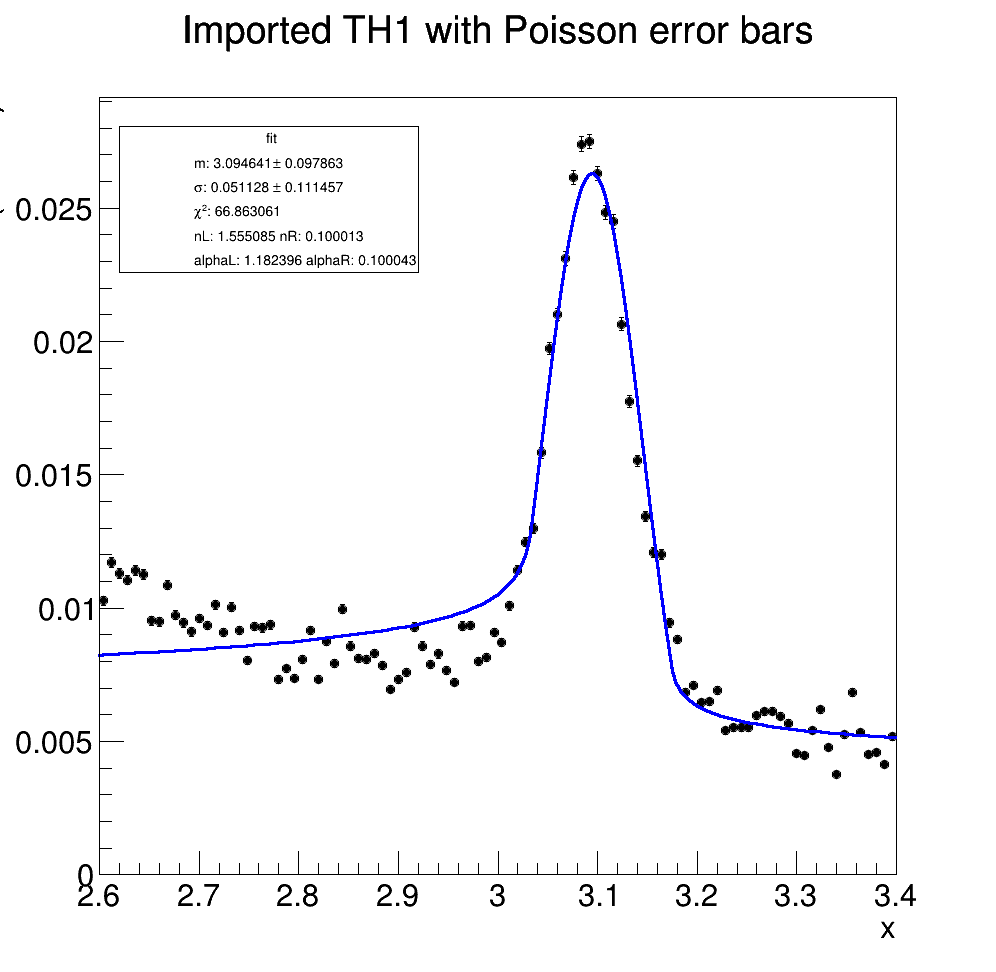
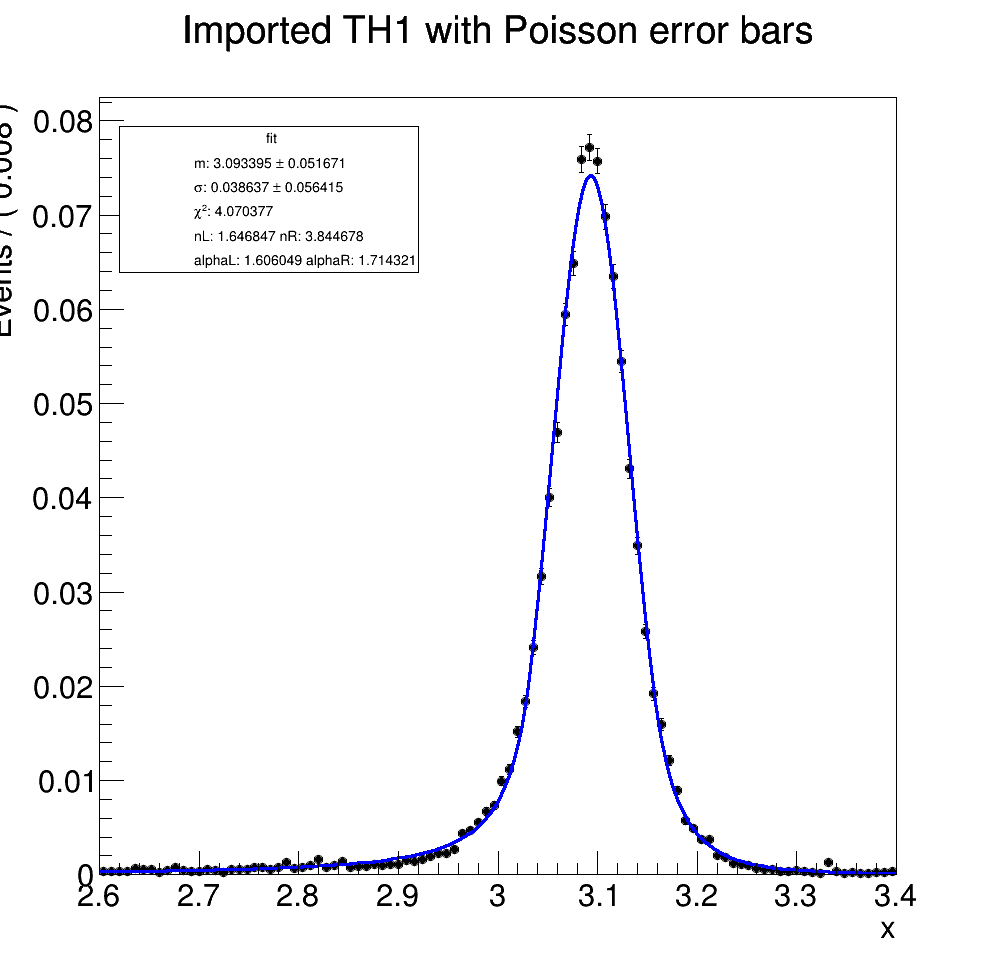
updates

diff --git a/root_scripts/tmva/QQ_mass_resolution_TMVA.C b/root_scripts/tmva/QQ_mass_resolution_TMVA.C
@@ -27,6 +27,14 @@
 #include <RooPlot.h>
 using namespace RooFit;
 
+#include <TMVA/Reader.h>
+#include <TMVA/Factory.h>
+#include <TMVA/DataLoader.h>
+#include <TMVA/DataSetInfo.h>
+#include <TMVA/Config.h>
+#include <TMVA/MethodDL.h>
+#include <TMVA/Tools.h>
+
 #include <ROOT/TTreeProcessorMT.hxx>
 #include <ROOT/TThreadedObject.hxx>
 
@@ -34,11 +42,13 @@ using namespace RooFit;
 #include "utils/TMVA_cuts.hpp"
 bool embeding = false;
 bool hasGEM = true;
+bool plotOnlyGEM = false;
+float wp = 0.6;
 
 TCanvas* QQ_mass_resolution_from_name(const char* filename) {
 	float massMin = 2.6, massMax = 3.4;
 	uint massBins = 100;
-	int max_n_event = -1;
+	int max_n_event = 50000;
 
 	float xSize = 0.3, ySize = 0.15;
 	float xBegin = 0.12, yBegin = 0.87;
@@ -48,9 +58,58 @@ TCanvas* QQ_mass_resolution_from_name(const char* filename) {
 	float QQrapidityCutLow = 1.6, QQrapidityCutHigh = 2.4;
 	float minVtxProb = 0.01;
 
-	int nthreads = std::thread::hardware_concurrency();
+	int nthreads = 1; //std::thread::hardware_concurrency();
 	std::cout << "using " << nthreads << " threads" << std::endl;
 	ROOT::EnableImplicitMT(nthreads);
+
+
+
+    TMVA::Reader *reader = new TMVA::Reader("!Color:!Silent");
+    const char *weightfile = "dataloader/weights/TMVAClassification_BDTG.weights.xml";
+
+/*int*/ float reco_mu_isGEM_, reco_isTracker_, reco_isGlobal_, reco_mu_highPurity_;
+/*int*/ float nHitsMu_, nHitsTracker_, nHitsPix_;
+	float reco_mu_localChi2_, reco_mu_normChi2_, reco_mu_pt_, reco_mu_eta_;
+	float reco_mu_dxy_, reco_mu_dz_, nPV_;
+/*int*/ float reco_mu_nMatches_, reco_muGEMquality_;
+
+    std::vector<TString> var_names = {
+    	"Reco_mu_nMuValHits",
+    	"Reco_mu_nTrkHits",
+    	"Reco_mu_nPixValHits",
+    	"Reco_mu_localChi2",
+	 // "Reco_mu_normChi2",
+    	"Reco_mu_pt",
+    	"Reco_mu_eta",
+    	"Reco_mu_dxy",
+    	"Reco_mu_dz",
+    	"nPV",
+	 // "Reco_mu_highPurity",
+	    "Reco_mu_nMatches" // ,
+	 // "Reco_muGEMquality"
+    };
+    std::map<TString, float*> float_variables = {
+    	{"Reco_mu_nMuValHits",  &nHitsMu_},
+    	{"Reco_mu_nTrkHits",    &nHitsTracker_},
+    	{"Reco_mu_nPixValHits", &nHitsPix_},
+    	{"Reco_mu_localChi2",   &reco_mu_localChi2_},
+	 // {"Reco_mu_normChi2",    &reco_mu_normChi2_},
+    	{"Reco_mu_pt",          &reco_mu_pt_},
+    	{"Reco_mu_eta",         &reco_mu_eta_},
+    	{"Reco_mu_dxy",         &reco_mu_dxy_},
+    	{"Reco_mu_dz",          &reco_mu_dz_},
+    	{"nPV",                 &nPV_},
+	 // {"Reco_mu_highPurity",  &reco_mu_highPurity_},
+	    {"Reco_mu_nMatches",    &reco_mu_nMatches_} // ,
+	 // {"Reco_muGEMquality",   &reco_muGEMquality_}
+    };
+    for (auto var_name : var_names) {
+        reader->AddVariable(var_name, float_variables[var_name]);
+    }
+
+    std::cout << "Read model..." << std::endl;
+    reader->BookMVA("BDTG", weightfile);
+    std::cout << "... Done" << std::endl;
 
 
 	auto readerFunction = [&](TTreeReader &myReader) {
@@ -77,6 +136,7 @@ TCanvas* QQ_mass_resolution_from_name(const char* filename) {
 		TTreeReaderArray<short>        mu_whichgen   (myReader, "Reco_mu_whichGen");
 		TTreeReaderArray<bool>         is_soft_cut   (myReader, "Reco_mu_isSoftCutBased"); //"Reco_mu_isSoftCutBased"); //"Reco_mu_isGlobal);" //"Reco_mu_isTracker");
 		TTreeReaderArray<bool>         reco_isTracker(myReader, "Reco_mu_isTracker"); //"Reco_mu_isGlobal");
+		TTreeReaderArray<short>        reco_mu_charge(myReader, "Reco_mu_charge");
 
 		TTreeReaderArray<bool>  reco_mu_isGEM     (myReader, hasGEM ? "Reco_mu_isGEM" : "Reco_mu_isTracker");
 		TTreeReaderArray<bool>  reco_isGlobal     (myReader, "Reco_mu_isGlobal");
@@ -107,6 +167,10 @@ TCanvas* QQ_mass_resolution_from_name(const char* filename) {
 		    	if (isPositiv) {
 		    		int reco_idx = reco_mu_idx[QQreco_idx], reco_jdx = reco_mu_jdx[QQreco_idx];
 
+			    	if (reco_mu_charge[reco_idx]*reco_mu_charge[reco_jdx] >= 0) {
+			    		continue;
+			    	}
+
 			    	      mom4         = (TLorentzVector*)reco_mu_4mom->At(reco_idx);
 		    		float reco_mu_pti  = mom4->Pt();
 		    		float reco_mu_etai = abs(mom4->Rapidity());
@@ -116,7 +180,7 @@ TCanvas* QQ_mass_resolution_from_name(const char* filename) {
 		    		float reco_mu_etaj = abs(mom4->Rapidity());
 
 		    		// conditions on muons
-			    	if (!pass_TMVA_pre_cut(
+		    		if (pass_TMVA_domain_cut(
 						hasGEM ? reco_mu_isGEM[reco_idx] : false,
 						reco_isTracker    [reco_idx],
 						reco_isGlobal     [reco_idx],
@@ -134,27 +198,102 @@ TCanvas* QQ_mass_resolution_from_name(const char* filename) {
 						reco_mu_nMatches  [reco_idx],
 						reco_muGEMquality [reco_idx]
 					)) {
-			    		continue;
+				    	if (!pass_TMVA_pre_cut(
+							hasGEM ? reco_mu_isGEM[reco_idx] : false,
+							reco_isTracker    [reco_idx],
+							reco_isGlobal     [reco_idx],
+							nHitsMu           [reco_idx],
+							nHitsTracker      [reco_idx],
+							nHitsPix          [reco_idx],
+							reco_mu_localChi2 [reco_idx],
+							reco_mu_normChi2  [reco_idx],
+							reco_mu_pti,
+							reco_mu_etai,
+							reco_mu_dxy       [reco_idx],
+							reco_mu_dz        [reco_idx],
+						   *nPV,
+							reco_mu_highPurity[reco_idx],
+							reco_mu_nMatches  [reco_idx],
+							reco_muGEMquality [reco_idx]
+						)) {
+				    		continue;
+						}
+
+						nHitsMu_           = nHitsMu          [reco_idx];
+						nHitsTracker_      = nHitsTracker     [reco_idx];
+						nHitsPix_          = nHitsPix         [reco_idx];
+						reco_mu_localChi2_ = reco_mu_localChi2[reco_idx];
+						reco_mu_pt_        = reco_mu_pti;
+						reco_mu_eta_       = reco_mu_etai;
+						reco_mu_dxy_       = reco_mu_dxy      [reco_idx];
+						reco_mu_dz_        = reco_mu_dz       [reco_idx];
+						nPV_               = *nPV;
+						reco_mu_nMatches_  = reco_mu_nMatches [reco_idx];
+
+						float proba = reader->EvaluateMVA("BDTG");
+						if (proba < wp) {
+							continue;
+						}
+					} else if (plotOnlyGEM) {
+						continue;
 					}
-					if (!pass_TMVA_pre_cut(
-						hasGEM ? reco_mu_isGEM[reco_jdx] : false,
-						reco_isTracker    [reco_jdx],
-						reco_isGlobal     [reco_jdx],
-						nHitsMu           [reco_jdx],
-						nHitsTracker      [reco_jdx],
-						nHitsPix          [reco_jdx],
-						reco_mu_localChi2 [reco_jdx],
-						reco_mu_normChi2  [reco_jdx],
+
+		    		if (pass_TMVA_domain_cut(
+						hasGEM ? reco_mu_isGEM[reco_idx] : false,
+						reco_isTracker    [reco_idx],
+						reco_isGlobal     [reco_idx],
+						nHitsMu           [reco_idx],
+						nHitsTracker      [reco_idx],
+						nHitsPix          [reco_idx],
+						reco_mu_localChi2 [reco_idx],
+						reco_mu_normChi2  [reco_idx],
 						reco_mu_pti,
 						reco_mu_etai,
-						reco_mu_dxy       [reco_jdx],
-						reco_mu_dz        [reco_jdx],
+						reco_mu_dxy       [reco_idx],
+						reco_mu_dz        [reco_idx],
 					   *nPV,
-						reco_mu_highPurity[reco_jdx],
-						reco_mu_nMatches  [reco_jdx],
-						reco_muGEMquality [reco_jdx]
+						reco_mu_highPurity[reco_idx],
+						reco_mu_nMatches  [reco_idx],
+						reco_muGEMquality [reco_idx]
 					)) {
-			    		continue;
+						if (!pass_TMVA_pre_cut(
+							hasGEM ? reco_mu_isGEM[reco_jdx] : false,
+							reco_isTracker    [reco_jdx],
+							reco_isGlobal     [reco_jdx],
+							nHitsMu           [reco_jdx],
+							nHitsTracker      [reco_jdx],
+							nHitsPix          [reco_jdx],
+							reco_mu_localChi2 [reco_jdx],
+							reco_mu_normChi2  [reco_jdx],
+							reco_mu_pti,
+							reco_mu_etai,
+							reco_mu_dxy       [reco_jdx],
+							reco_mu_dz        [reco_jdx],
+						   *nPV,
+							reco_mu_highPurity[reco_jdx],
+							reco_mu_nMatches  [reco_jdx],
+							reco_muGEMquality [reco_jdx]
+						)) {
+				    		continue;
+						}
+
+						nHitsMu_           = nHitsMu          [reco_jdx];
+						nHitsTracker_      = nHitsTracker     [reco_jdx];
+						nHitsPix_          = nHitsPix         [reco_jdx];
+						reco_mu_localChi2_ = reco_mu_localChi2[reco_jdx];
+						reco_mu_pt_        = reco_mu_ptj;
+						reco_mu_eta_       = reco_mu_etaj;
+						reco_mu_dxy_       = reco_mu_dxy      [reco_jdx];
+						reco_mu_dz_        = reco_mu_dz       [reco_jdx];
+						nPV_               = *nPV;
+						reco_mu_nMatches_  = reco_mu_nMatches [reco_jdx];
+
+						float proba = reader->EvaluateMVA("BDTG");
+						if (proba < wp) {
+							continue;
+						}
+					} else if (plotOnlyGEM) {
+						continue;
 					}
 
 			    	massHist->Fill(recMass, weigth);

diff --git a/root_scripts/plots/QQ_mass_resolution.C b/root_scripts/plots/QQ_mass_resolution.C
@@ -75,13 +75,14 @@ TCanvas* QQ_mass_resolution_from_name(const char* filename) {
 		TTreeReaderArray<short>        mu_whichgen   (myReader, "Reco_mu_whichGen");
 		TTreeReaderArray<bool>         is_soft_cut   (myReader, "Reco_mu_isSoftCutBased"); //"Reco_mu_isSoftCutBased"); //"Reco_mu_isGlobal);" //"Reco_mu_isTracker");
 		TTreeReaderArray<bool>         reco_isTracker(myReader, "Reco_mu_isTracker"); //"Reco_mu_isGlobal");
+		TTreeReaderArray<short>        reco_mu_charge(myReader, "Reco_mu_charge");
 
 		for (int j = 0; myReader.Next() && (j < max_n_event/nthreads || max_n_event <= 0); j++) {
 			float weigth = embeding ? findNcoll(getHiBinFromhiHF(*hiHF)) : 1.f;
 
 			for (int QQreco_idx = 0; QQreco_idx < *reco_QQ_size; ++QQreco_idx) {
 				short i         = gen_QQ_idx[QQreco_idx];
-		    	bool  isPositiv = i >= 0 && i < *gen_QQ_size;
+		    	bool  isPositiv = true; // i >= 0 && i < *gen_QQ_size;
 
 		    	TLorentzVector* mom4    = (TLorentzVector*)reco_QQ_4mom->At(QQreco_idx);
 		    	float           recPt   = mom4->Pt();
@@ -92,12 +93,12 @@ TCanvas* QQ_mass_resolution_from_name(const char* filename) {
 		    		int reco_idx = reco_mu_idx[QQreco_idx], reco_jdx = reco_mu_jdx[QQreco_idx];
 			    	int gen_idx = gen_mu_idx[i], gen_jdx = gen_mu_jdx[i];
 
-			    	      mom4 = (TLorentzVector*)reco_QQ_4mom->At(QQreco_idx);
-		    		float pt   = mom4->Pt();
-		    		float eta  = abs(mom4->Rapidity());
+			    	if (reco_mu_charge[reco_idx]*reco_mu_charge[reco_jdx] >= 0) {
+			    		continue;
+			    	}
 
 		    		// conditions on muons
-			    	if ((reco_idx != gen_idx || reco_jdx != gen_jdx) &&
+			    	/* if ((reco_idx != gen_idx || reco_jdx != gen_jdx) &&
 			    		(reco_jdx != gen_idx || reco_idx != gen_jdx))
 			    		continue;
 		    		if (!is_soft_cut[reco_idx] || !is_soft_cut[reco_jdx])
@@ -114,7 +115,7 @@ TCanvas* QQ_mass_resolution_from_name(const char* filename) {
 			    	if (reco_QQ_sign[QQreco_idx] != 0)
 			    		continue;
 			    	if (reco_QQ_VtxProb[QQreco_idx] < minVtxProb)
-			    		continue;
+			    		continue; */
 
 			    	massHist->Fill(recMass, weigth);
 		    	}
